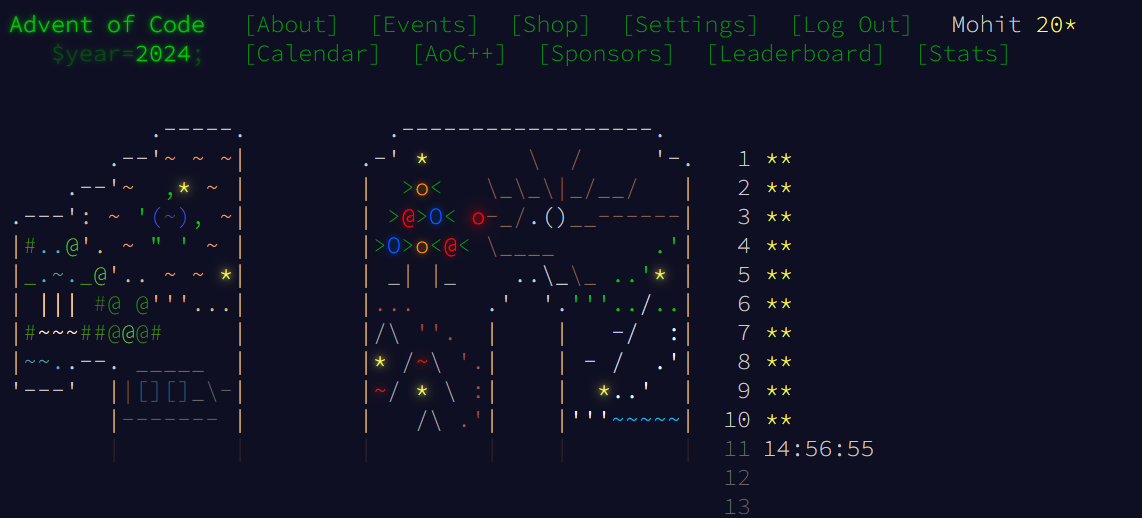
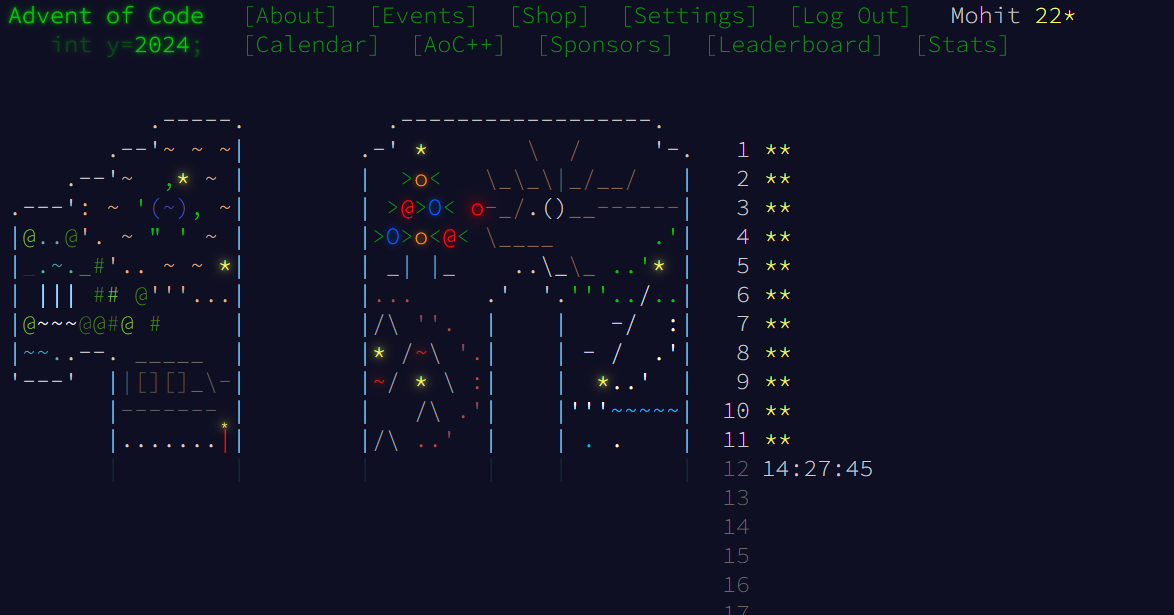
day11 completed

diff --git a/day11/day11.go b/day11/day11.go
@@ -1,0 +1,106 @@
+package main
+
+import (
+	"fmt"
+	"os"
+	"strconv"
+	"strings"
+	"sync"
+)
+
+func removeLeadingZeroes(str string) string {
+	res := ""
+	ok := false
+	for _, val := range str {
+		if val != '0' {
+			ok = true
+		}
+		if ok {
+			res += string(val)
+		}
+	}
+
+	if len(res) == 0 {
+		return "0"
+	}
+	return res
+}
+
+func solve(el string, result chan int, mp map[string]int, wg *sync.WaitGroup) {
+	defer wg.Done()
+	res := []string{el}
+	for i := 0; i < 75; i++ {
+		var arr []string
+		for _, val := range res {
+			if len(val)%2 == 0 {
+				fh := val[0 : len(val)/2]
+				sh := val[len(val)/2:]
+				fh = removeLeadingZeroes(fh)
+				sh = removeLeadingZeroes(sh)
+				arr = append(arr, fh, sh)
+			} else if val == "0" {
+				arr = append(arr, "1")
+			} else {
+				n, _ := strconv.Atoi(val)
+				arr = append(arr, strconv.Itoa(n*2024))
+			}
+		}
+		res = arr
+	}
+	result <- len(res)
+}
+
+func recursive(val string, mp map[string]int, turn int) int {
+	if turn == 75 {
+		return 1
+	}
+
+	tstr := strconv.Itoa(turn)
+	if mp[val+"#"+tstr] != 0 {
+		return mp[val+"#"+tstr]
+	}
+	res := 0
+	if len(val)%2 == 0 {
+		fh := val[0 : len(val)/2]
+		sh := val[len(val)/2:]
+		fh = removeLeadingZeroes(fh)
+		sh = removeLeadingZeroes(sh)
+		res = recursive(fh, mp, turn+1) + recursive(sh, mp, turn+1)
+	} else if val == "0" {
+		res = recursive("1", mp, turn+1)
+	} else {
+		n, _ := strconv.Atoi(val)
+		s := strconv.Itoa(n * 2024)
+		res += recursive(s, mp, turn+1)
+	}
+
+	mp[val+"#"+tstr] = res
+	return mp[val+"#"+tstr]
+}
+
+func main() {
+	data, _ := os.ReadFile("day11_test.txt")
+	input := strings.Split(string(data), " ")
+
+	// var wg sync.WaitGroup
+	mp := make(map[string]int)
+
+	// resultChan := make(chan int, len(input))
+	res := 0
+	// for _, val := range input {
+	// 	wg.Add(1)
+	// 	go solve(val, resultChan, mp, &wg)
+	// }
+
+	for _, val := range input {
+		res += recursive(val, mp, 0)
+	}
+
+	// wg.Wait()
+	// close(resultChan)
+
+	// for result := range resultChan {
+	// 	res += result
+	// }
+	fmt.Println(res)
+}
